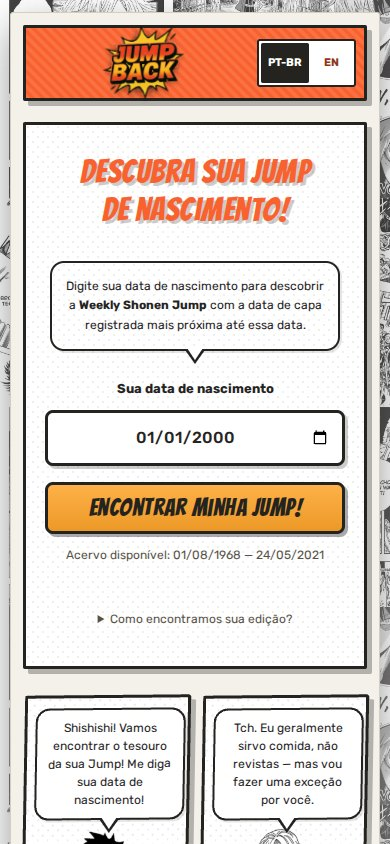
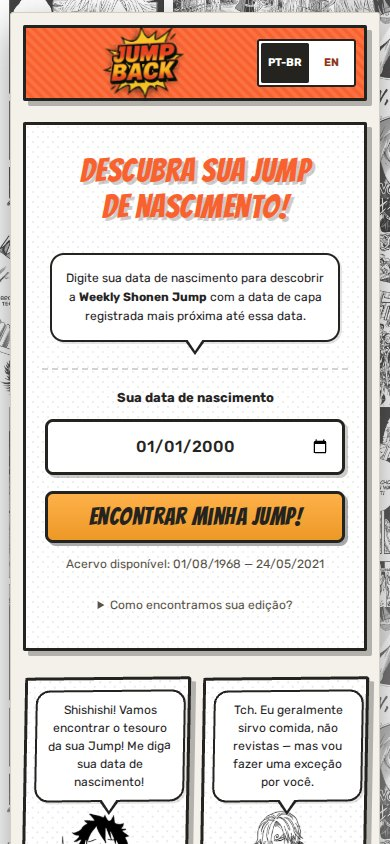
style: refine search and results page composition

diff --git a/src/css/reveal.css b/src/css/reveal.css
@@ -59,7 +59,7 @@ body.reveal-edition {
   box-shadow: 0 15px 40px #0006;
 }
 body.index-page.reveal-edition .manga-page {
-  grid-template-columns: minmax(0, 2.1fr) minmax(0, 1fr);
+  grid-template-columns: minmax(0, 1.9fr) minmax(0, 1fr);
   grid-template-rows: auto auto;
 }
 .reveal-edition .panel { min-width: 0; }
@@ -109,8 +109,8 @@ body.index-page.reveal-edition .manga-page {
   grid-row: 2;
   justify-content: center;
   align-items: center;
-  min-height: 560px;
-  padding: 36px 28px 24px;
+  min-height: 544px;
+  padding: 32px 32px 24px;
   text-align: center;
   border: 3px solid var(--ink);
   background: white var(--comic-dot-pattern);
@@ -123,8 +123,8 @@ body.index-page.reveal-edition .manga-page {
   margin: 0 0 24px;
   font-family: var(--font-heading-comic);
   font-weight: 400;
-  font-size: clamp(38px, 4vw, 52px);
-  line-height: 1.15;
+  font-size: clamp(40px, 4.6vw, 52px);
+  line-height: 1.08;
   letter-spacing: .015em;
   text-shadow: 3px 3px 0 #0003;
   color: var(--header-bg);
@@ -132,8 +132,8 @@ body.index-page.reveal-edition .manga-page {
 }
 .ink-highlight { position: relative; display: inline-block; color: var(--comic-orange); }
 .ink-highlight::after { content: ''; display: block; position: absolute; z-index: -1; left: -4px; right: -6px; bottom: 1px; height: .21em; background: var(--comic-yellow); transform: rotate(-2deg); }
-.hero-intro.speech-bubble { width: min(440px, 100%); max-width: none; margin: 0 0 18px; padding: 16px 18px; font: 400 14px/1.6 var(--font-body); color: var(--ink); background: white var(--comic-dot-pattern); border: 2px solid var(--ink); border-radius: 14px; transform: skew(1deg, .5deg); }
-#dateForm { width: 100%; margin: 20px 0 8px; }
+.hero-intro.speech-bubble { width: min(420px, 100%); max-width: none; margin: 0 0 18px; padding: 14px 18px; font: 400 14px/1.6 var(--font-body); color: var(--ink); background: white; border: 2px solid var(--ink); border-radius: 14px; transform: skew(1deg, .5deg); }
+#dateForm { width: min(360px, 100%); margin: 18px 0 4px; padding-top: 20px; border-top: 2px dashed #25231f33; }
 #dateForm label { display: block; margin-bottom: 10px; font-size: 13px; font-weight: 700; }
 .date-action-row { display: flex; flex-direction: column; align-items: center; gap: 16px; }
 .reveal-edition .date-picker {
@@ -157,10 +157,11 @@ body.index-page.reveal-edition .manga-page {
 body.reveal-edition .date-picker:focus-visible { outline: 3px solid #146a9e; outline-offset: 4px; border-color: var(--ink); box-shadow: none; }
 #coverage { margin: 12px auto 0; font-size: 12px; line-height: 1.6; color: var(--muted-ink); text-wrap: balance; }
 #formStatus { min-height: 1.5em; margin-top: 8px; font-size: 13px; }
+#formStatus:empty { min-height: 0; margin: 0; }
 .reveal-edition .error-message { display: block; margin: 12px 0 0; padding: 12px; font-size: 14px; line-height: 1.5; color: #971d1d; background: #fff0e8; border-left: 3px solid #b33125; text-shadow: none; transform: none; }
 .reveal-edition .date-picker[aria-invalid='true'] { border-color: #971d1d; background-color: #fff8f4; }
 .archive-note, .small-note, .source-note { font-size: 12px; line-height: 1.6; color: var(--muted-ink); }
-.how-it-works { max-width: 48ch; font-size: 12px; }
+.how-it-works { max-width: 48ch; margin-top: 8px; font-size: 12px; }
 .how-it-works summary { min-height: 44px; padding: 10px 4px; cursor: pointer; color: var(--muted-ink); text-underline-offset: 4px; }
 .how-it-works summary:hover { color: var(--ink); }
 .how-it-works .archive-note { margin-top: 10px; }
@@ -193,9 +194,9 @@ body.reveal-edition .date-picker:focus-visible { outline: 3px solid #146a9e; out
 .reveal-edition .secondary-button:hover { background: #eee8d9; color: var(--ink); box-shadow: none; transform: none; }
 .reveal-edition #findButton { width: min(300px, 100%); font: 400 24px var(--font-heading-comic); letter-spacing: .02em; padding: 10px 22px; }
 .reveal-edition .mascot-panels-wrapper { grid-column: 2; grid-row: 2; display: flex; flex-direction: column; gap: 14px; min-width: 0; padding: 0; }
-.reveal-edition .mascot-panels-wrapper > .panel { display: flex; flex-direction: column; align-items: center; width: 100%; min-height: 260px; margin: 0; padding: 0; overflow: hidden; border: 3px solid var(--ink); background: white var(--comic-dot-pattern); box-shadow: 5px 5px 0 #0004; transform: skew(-1deg, -.5deg); }
+.reveal-edition .mascot-panels-wrapper > .panel { display: flex; flex: 1; flex-direction: column; align-items: center; width: 100%; min-height: 230px; margin: 0; padding: 0; overflow: hidden; border: 3px solid var(--ink); background: white var(--comic-dot-pattern); box-shadow: 5px 5px 0 #0004; transform: skew(-1deg, -.5deg); }
 .reveal-edition .mascot-panels-wrapper .speech-bubble { align-self: stretch; max-width: none; margin: 14px 12px 8px; padding: 10px; font: 400 13px/1.5 var(--font-body); border: 2px solid var(--ink); border-radius: 14px; background: white; color: var(--ink); transform: skew(1deg, .5deg); z-index: 2; }
-.reveal-edition .mascot, .reveal-edition .mascot2 { flex: 1; width: 90%; max-width: none; height: 160px; min-height: 160px; margin: 0; background-size: contain; background-position: bottom center; background-repeat: no-repeat; animation: none; transform: skew(1deg, .5deg); }
+.reveal-edition .mascot, .reveal-edition .mascot2 { flex: 1; width: 90%; max-width: none; height: 150px; min-height: 150px; margin: 0; background-size: contain; background-position: bottom center; background-repeat: no-repeat; animation: none; transform: skew(1deg, .5deg); }
 .results-page.reveal-edition .manga-page { display: flex; flex-direction: column; gap: 24px; }
 .reveal-main { min-width: 0; }
 .result-status { margin: 0 0 18px; font-size: 13px; color: var(--muted-ink); }
@@ -207,40 +208,46 @@ body.reveal-edition .date-picker:focus-visible { outline: 3px solid #146a9e; out
 #coverStatus { font-size: 12px; color: #f4f1ea; text-align: center; }
 #coverStatus:empty { display: none; }
 #retryCoverButton { padding: 10px 14px; font: 500 13px var(--font-body); color: var(--ink); background: var(--comic-yellow); border: 2px solid var(--ink); cursor: pointer; }
-.reveal-copy { padding: 32px 30px 24px; background: white var(--comic-dot-pattern); }
+.reveal-copy { display: flex; flex-direction: column; align-items: flex-start; padding: 28px; background: white var(--comic-dot-pattern); }
 .reveal-copy > .eyebrow { color: #a03b19; }
 .reveal-copy h1 { max-width: 100%; margin: 14px 0 18px; font: 400 clamp(40px, 4.2vw, 52px)/1.08 var(--font-heading-comic); letter-spacing: .02em; color: var(--header-bg); text-shadow: 2px 2px 0 #0002; }
-.issue-stamp { display: inline-flex; flex-wrap: wrap; align-items: center; gap: 4px 12px; padding: 4px 10px; border: 1px solid #c9ad43; background: #fff5bd; font-size: 12px; }
-.issue-stamp strong { font: 400 28px var(--font-heading-comic); }
-.date-facts { display: grid; gap: 16px; margin: 22px 0 14px; }
+.issue-stamp { display: inline-flex; flex-wrap: wrap; align-items: center; gap: 4px 12px; padding: 5px 12px; border: 2px solid var(--ink); background: #fff5bd; box-shadow: 3px 3px 0 #0002; font-size: 12px; }
+.issue-stamp strong { font: 400 36px/1.1 var(--font-heading-comic); }
+.date-facts { display: grid; grid-template-columns: repeat(2, minmax(0, 1fr)); width: 100%; gap: 16px; margin: 24px 0 14px; }
+.date-facts > div { min-width: 0; }
+.date-facts > div + div { padding-left: 16px; border-left: 1px solid #dcd5c6; }
 .date-facts dt { margin-bottom: 4px; font-size: 12px; color: var(--muted-ink); }
 .date-facts dd { margin: 0; font-size: 14px; line-height: 1.45; }
-.date-facts .reveal-date { font-weight: 700; }
+.date-facts .reveal-date { font-size: 16px; font-weight: 700; }
 .reveal-copy .archive-note { max-width: 43ch; font-size: 12px; }
-.featured-series { margin-top: 23px; padding-top: 18px; border-top: 1px solid #dcd5c6; }
+.featured-series { width: 100%; margin-top: 22px; padding-top: 16px; border-top: 2px dashed #25231f33; }
 .featured-series h2 { font: 400 29px var(--font-heading-comic); }
 .featured-series ul { margin: 10px 0; list-style: none; }
 .featured-series li { padding: 8px 0; font-size: 14px; font-weight: 500; line-height: 1.5; overflow-wrap: anywhere; }
 .featured-series li::before { content: ''; display: inline-block; width: 6px; height: 6px; margin-right: 10px; vertical-align: 2px; background: var(--comic-orange); transform: rotate(45deg); }
-.card-signature { margin-top: 24px; font-size: 9px; font-weight: 700; letter-spacing: .12em; color: var(--muted-ink); }
-.result-actions { display: flex; justify-content: flex-end; flex-wrap: wrap; gap: 12px; margin-top: 24px; }
-.share-status { min-height: 1.4em; margin-top: 12px; font-size: 13px; text-align: right; }
-.share-note { margin-top: 4px; text-align: right; font-size: 11px; }
-#manualShare { margin-top: 12px; padding: 18px; border: 1px solid #cfc8b7; background: #fff5bd; font-size: 13px; }
+.card-signature { margin-top: auto; padding-top: 20px; font-size: 9px; font-weight: 700; letter-spacing: .12em; color: var(--muted-ink); }
+.result-toolbar { display: grid; grid-template-columns: minmax(0, 1fr) auto; align-items: center; gap: 12px 24px; margin-top: 22px; }
+.result-actions { grid-column: 2; grid-row: 1; display: flex; justify-content: flex-end; flex-wrap: wrap; gap: 12px; }
+.share-status { grid-column: 1 / -1; font-size: 13px; text-align: right; }
+.share-status:empty { display: none; }
+.share-note { grid-column: 1; grid-row: 1; max-width: 38ch; margin: 0; text-align: left; font-size: 12px; }
+#manualShare { grid-column: 1 / -1; padding: 18px; border: 1px solid #cfc8b7; background: #fff5bd; font-size: 13px; }
 #shareURL { display: block; width: 100%; margin-top: 8px; padding: 12px; font: inherit; background: white; border: 1px solid #b8b09e; }
-.explore-panel.panel { display: block; margin-top: 28px; padding: 24px; border: 3px solid var(--ink); background: white var(--comic-dot-pattern); box-shadow: 5px 5px 0 #0004; transform: none; }
-.explore-eyebrow { color: #a03b19; }
-.explore-panel > h2 { margin-top: 6px; font: 400 40px var(--font-heading-comic); }
-.explore-tabs { display: flex; flex-wrap: nowrap; gap: 8px; margin: 22px 0 16px; padding-bottom: 6px; overflow-x: auto; overscroll-behavior-x: contain; scrollbar-width: thin; }
+.explore-panel.panel { display: grid; grid-template-columns: minmax(0, 1fr) auto; column-gap: 24px; margin-top: 28px; padding: 24px; border: 3px solid var(--ink); background: white var(--comic-dot-pattern); box-shadow: 5px 5px 0 #0004; transform: none; }
+.explore-eyebrow { grid-column: 1; grid-row: 1; color: #a03b19; }
+.explore-panel > h2 { grid-column: 1; grid-row: 2; margin-top: 4px; font: 400 36px/1.1 var(--font-heading-comic); }
+.explore-tabs { grid-column: 2; grid-row: 1 / 3; align-self: center; display: flex; flex-wrap: wrap; gap: 8px; margin: 0; padding: 3px; }
 .explore-tab { flex: none; min-height: 46px; padding: 10px 12px; font: 500 13px var(--font-body); color: var(--ink); background: var(--tab-bg); border: 2px solid var(--ink); border-radius: 3px; cursor: pointer; }
 .explore-tab:hover { color: var(--ink); background: var(--accent-color); }
 .explore-tab:focus-visible { outline-offset: -3px; }
 .explore-tab[aria-selected='true'] { color: white; background: #303030; }
-.explore-content { min-height: 120px; padding: 10px 0; font-size: 14px; line-height: 1.7; overflow-wrap: anywhere; }
+.explore-content { grid-column: 1 / -1; min-width: 0; min-height: 120px; margin-top: 20px; padding: 20px 0 0; border-top: 2px dashed #25231f33; font-size: 14px; line-height: 1.7; overflow-wrap: anywhere; }
 .explore-content h3 { margin-bottom: 16px; font-size: 16px; }
 .explore-content ul { max-width: 70ch; margin-left: 20px; }
 .explore-content li { margin-bottom: 11px; padding-left: 4px; }
 .explore-content p { max-width: 70ch; margin-bottom: 14px; }
+#contentsTabPanel ul { display: grid; grid-template-columns: repeat(2, minmax(0, 1fr)); column-gap: 32px; max-width: none; margin: 0; list-style: none; }
+#contentsTabPanel li { min-width: 0; margin: 0; padding: 12px 0; border-bottom: 1px solid #25231f22; }
 .tag-counts meter { display: block; width: min(340px, 100%); height: 18px; }
 .source-note { font-style: italic; }
 .error-panel.panel { gap: 18px; padding: 44px 30px; text-align: center; border: 2px solid var(--ink); background: #fff5bd; transform: none; }
@@ -255,6 +262,10 @@ body.reveal-edition .date-picker:focus-visible { outline: 3px solid #146a9e; out
   .reveal-edition .input-panel { padding: 30px 24px 20px; }
   .reveal-edition .mascot-panels-wrapper .speech-bubble { font-size: 12px; margin-inline: 10px; padding: 10px; }
 }
+@media (max-width: 900px) {
+  .explore-panel.panel { grid-template-columns: minmax(0, 1fr); }
+  .explore-tabs { grid-column: 1; grid-row: 3; margin-top: 18px; }
+}
 @media (max-width: 700px) {
   body.reveal-edition { padding: 12px 10px 22px; }
   body.results-page.reveal-edition { padding-bottom: 110px; }
@@ -267,11 +278,11 @@ body.reveal-edition .date-picker:focus-visible { outline: 3px solid #146a9e; out
   .brand-caption { display: none; }
   .language-nav { position: static; transform: none; padding: 2px; gap: 1px; }
   .language-nav a, .current-language { min-width: 42px; min-height: 40px; padding: 4px 7px; font-size: 11px; }
-  .reveal-edition .input-panel { min-height: 0; padding: 28px 16px 22px; }
-  .reveal-edition .input-panel h1 { margin: 0 0 24px; font-size: clamp(32px, 8.5vw, 40px); }
+  .reveal-edition .input-panel { min-height: 0; padding: 28px 16px 18px; }
+  .reveal-edition .input-panel h1 { margin: 0 0 20px; font-size: clamp(32px, 8.5vw, 40px); }
   .hero-intro.speech-bubble { margin-bottom: 12px; padding: 14px 12px; font-size: 13px; }
   .eyebrow { font-size: 9px; letter-spacing: .11em; }
-  #dateForm { margin: 20px 0 8px; }
+  #dateForm { margin: 18px 0 4px; padding-top: 18px; }
   .reveal-edition .date-picker { font-size: 16px; }
   .reveal-edition .manga-button { min-height: 52px; }
   #coverage { font-size: 12px; }
@@ -289,17 +300,18 @@ body.reveal-edition .date-picker:focus-visible { outline: 3px solid #146a9e; out
   .date-facts { gap: 12px; margin-top: 18px; }
   .featured-series { margin-top: 20px; padding-top: 15px; }
   .card-signature { font-size: 8px; }
+  .result-toolbar { grid-template-columns: minmax(0, 1fr); margin-top: 18px; }
   .result-actions { position: fixed; z-index: 10; bottom: max(12px, env(safe-area-inset-bottom)); left: 12px; right: 12px; justify-content: stretch; flex-wrap: nowrap; gap: 8px; margin: 0; padding: 9px; border: 1px solid #cfc8b7; border-radius: 5px; box-shadow: 0 4px 20px #25231f24; background: var(--paper); }
   .result-actions .manga-button { flex: 1; min-height: 48px; padding: 10px 12px; font-size: 12px; }
   .result-actions .secondary-button { flex: .7; }
-  .share-status, .share-note { text-align: left; }
-  .share-status { margin-top: 20px; }
+  .share-status, .share-note { grid-column: 1; grid-row: auto; max-width: none; text-align: left; }
   #manualShare { scroll-margin-block: 100px; }
   .explore-panel.panel { margin-top: 28px; padding: 22px 12px; }
   .explore-panel > h2 { font-size: 36px; }
   .explore-tabs { flex-wrap: wrap; gap: 8px; margin-top: 16px; padding: 0 0 6px; overflow: visible; }
   .explore-tab { flex: 1 0 auto; }
   .explore-content { font-size: 13px; }
+  #contentsTabPanel ul { grid-template-columns: minmax(0, 1fr); }
   .reveal-edition .site-footer-info { font-size: 10px; }
 }
 @media (max-width: 380px) {

diff --git a/src/br/results.html b/src/br/results.html
@@ -55,6 +55,7 @@
    <p class="card-signature">JUMPBACK · SEU CAPÍTULO COMEÇA AQUI</p>
   </div>
  </article>
+ <div class="result-toolbar">
  <div class="result-actions">
   <a id="backButton" class="manga-button secondary-button" href="index.html">Trocar data</a>
   <button id="shareButton" class="manga-button" type="button" disabled>Compartilhar minha Jump <span aria-hidden="true">↗</span></button>
@@ -62,6 +63,7 @@
  <p id="shareStatus" class="share-status" role="status" aria-live="polite"></p>
  <div id="manualShare" hidden><label for="shareURL">Copie este link (ele contém a data escolhida):</label><input id="shareURL" readonly type="url"></div>
  <p class="small-note share-note">Tire um print do cartão ou compartilhe o link com a data escolhida.</p>
+ </div>
  <section id="explorePanel" class="panel explore-panel" aria-labelledby="exploreTitle" hidden>
   <p class="eyebrow explore-eyebrow">TEM MAIS NESTAS PÁGINAS</p>
   <h2 id="exploreTitle">Vire a página</h2>

diff --git a/src/results.html b/src/results.html
@@ -55,6 +55,7 @@
    <p class="card-signature">JUMPBACK · YOUR CHAPTER STARTS HERE</p>
   </div>
  </article>
+ <div class="result-toolbar">
  <div class="result-actions">
   <a id="backButton" class="manga-button secondary-button" href="index.html">Change date</a>
   <button id="shareButton" class="manga-button" type="button" disabled>Share my Jump <span aria-hidden="true">↗</span></button>
@@ -62,6 +63,7 @@
  <p id="shareStatus" class="share-status" role="status" aria-live="polite"></p>
  <div id="manualShare" hidden><label for="shareURL">Copy this link (it includes your selected date):</label><input id="shareURL" readonly type="url"></div>
  <p class="small-note share-note">Screenshot the card, or share a link containing your selected date.</p>
+ </div>
  <section id="explorePanel" class="panel explore-panel" aria-labelledby="exploreTitle" hidden>
   <p class="eyebrow explore-eyebrow">THERE’S MORE INSIDE</p>
   <h2 id="exploreTitle">Turn the page</h2>

diff --git a/docs/dev-alley-2027.md b/docs/dev-alley-2027.md
@@ -282,4 +282,33 @@ These are Chromium checks; the device/browser limitations above still apply.
 
 ![Polished result card using the existing 2000-01-01 source cover](images/classic-result-card.jpg)
 
+### Composition refinement
+
+The next pass improves the arrangement of the same visual elements:
+
+- The home grid gives slightly more room to the character panels (1.9:1).
+  A larger comic headline anchors the main panel, followed by a plain white
+  speech bubble and a compact search group separated by an ink-style dashed rule.
+  Empty status text no longer reserves an unused line beneath the form.
+- Both character panels share the available height, keeping their outer edges
+  aligned with the main search panel. The original artwork and patterns remain.
+- The result card compares recorded cover date and selected date side by side,
+  emphasizes the archive-number stamp and keeps its signature at the bottom of
+  the information column. The cover retains its original source and proportions.
+- A shared toolbar groups the sharing hint and actions directly under the card.
+  Its status and manual-copy fallback only take space when needed. Mobile keeps
+  the fixed actions and visible feedback.
+- The extras heading and tabs share a row on wide screens. The recorded contents
+  use two columns in original row order, with subtle separators. At 700px and
+  below the contents return to one column; tabs still wrap without sideways scroll.
+- EN/PT result HTML adds only the toolbar wrapper. No search, historical data,
+  sharing logic, dependencies or telemetry changed.
+
+Validation repeated successfully: 9 automated tests, 44 browser scenarios and
+the 16 EN/PT viewport/page combinations described above. Full-page desktop/mobile
+captures were reviewed in both languages. The existing browser/device limitations
+still apply. Images above now show the latest composition.
+
+![Complete result page with the refined composition](images/classic-results.jpg)
+
 The implementation remains on the working feature branch; no deployment was made.
